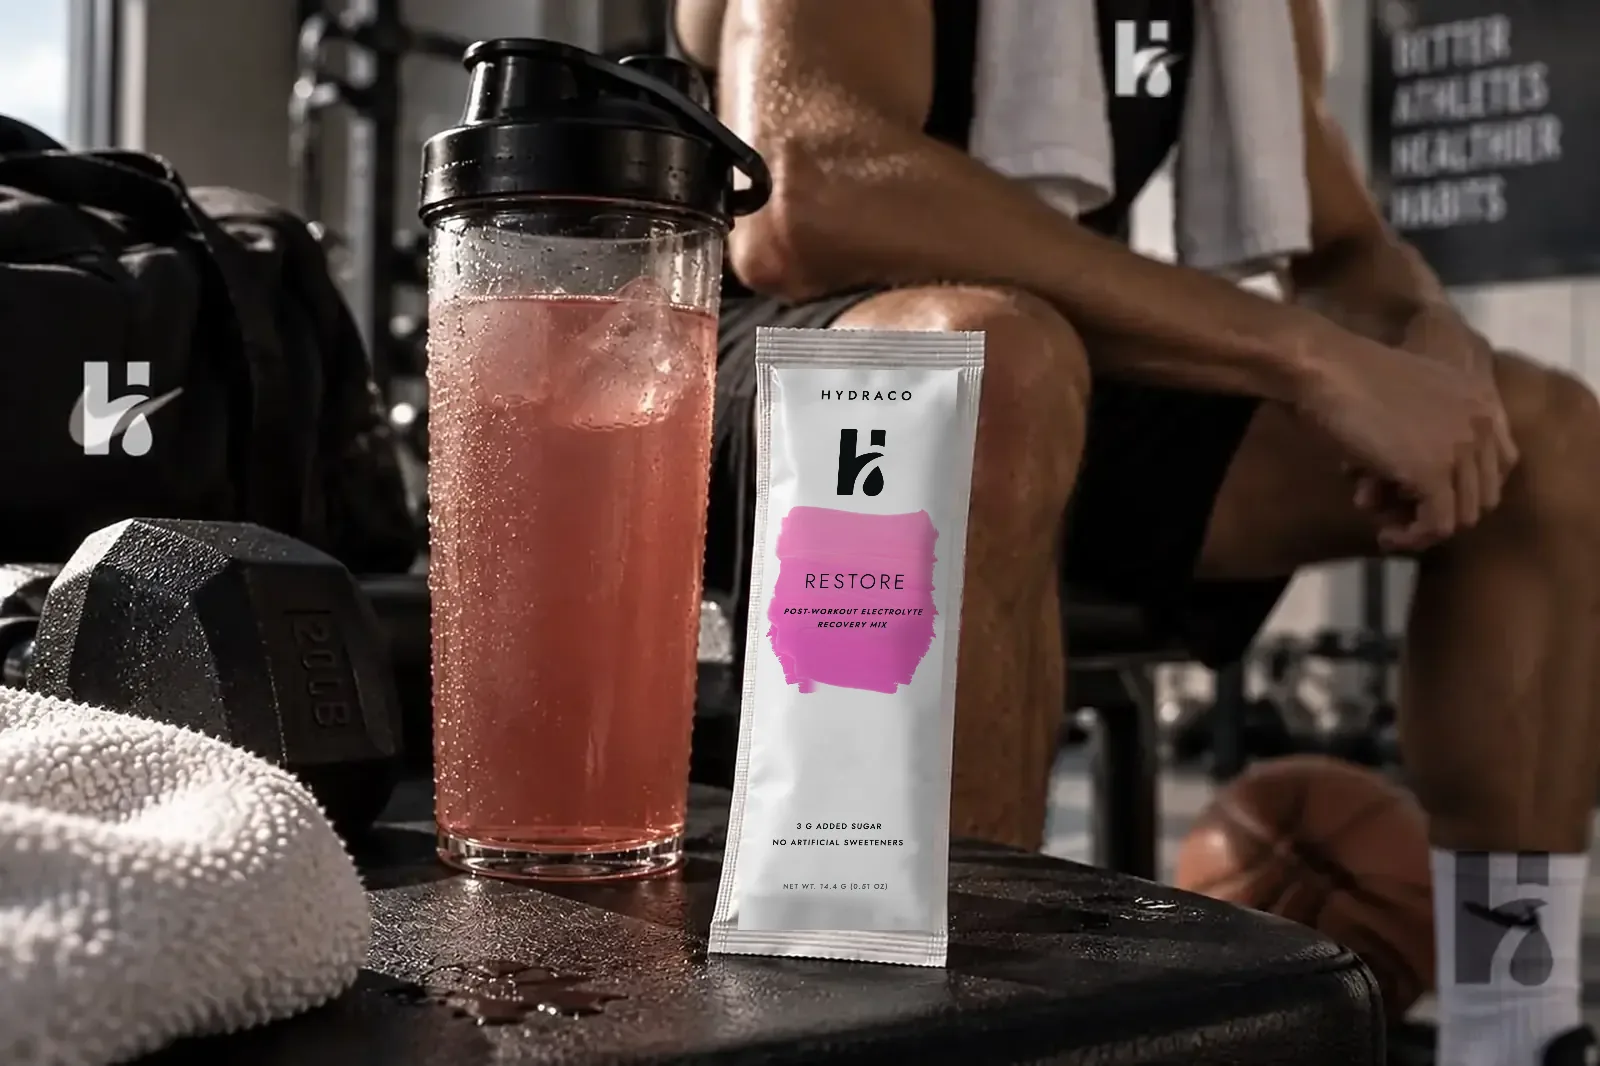
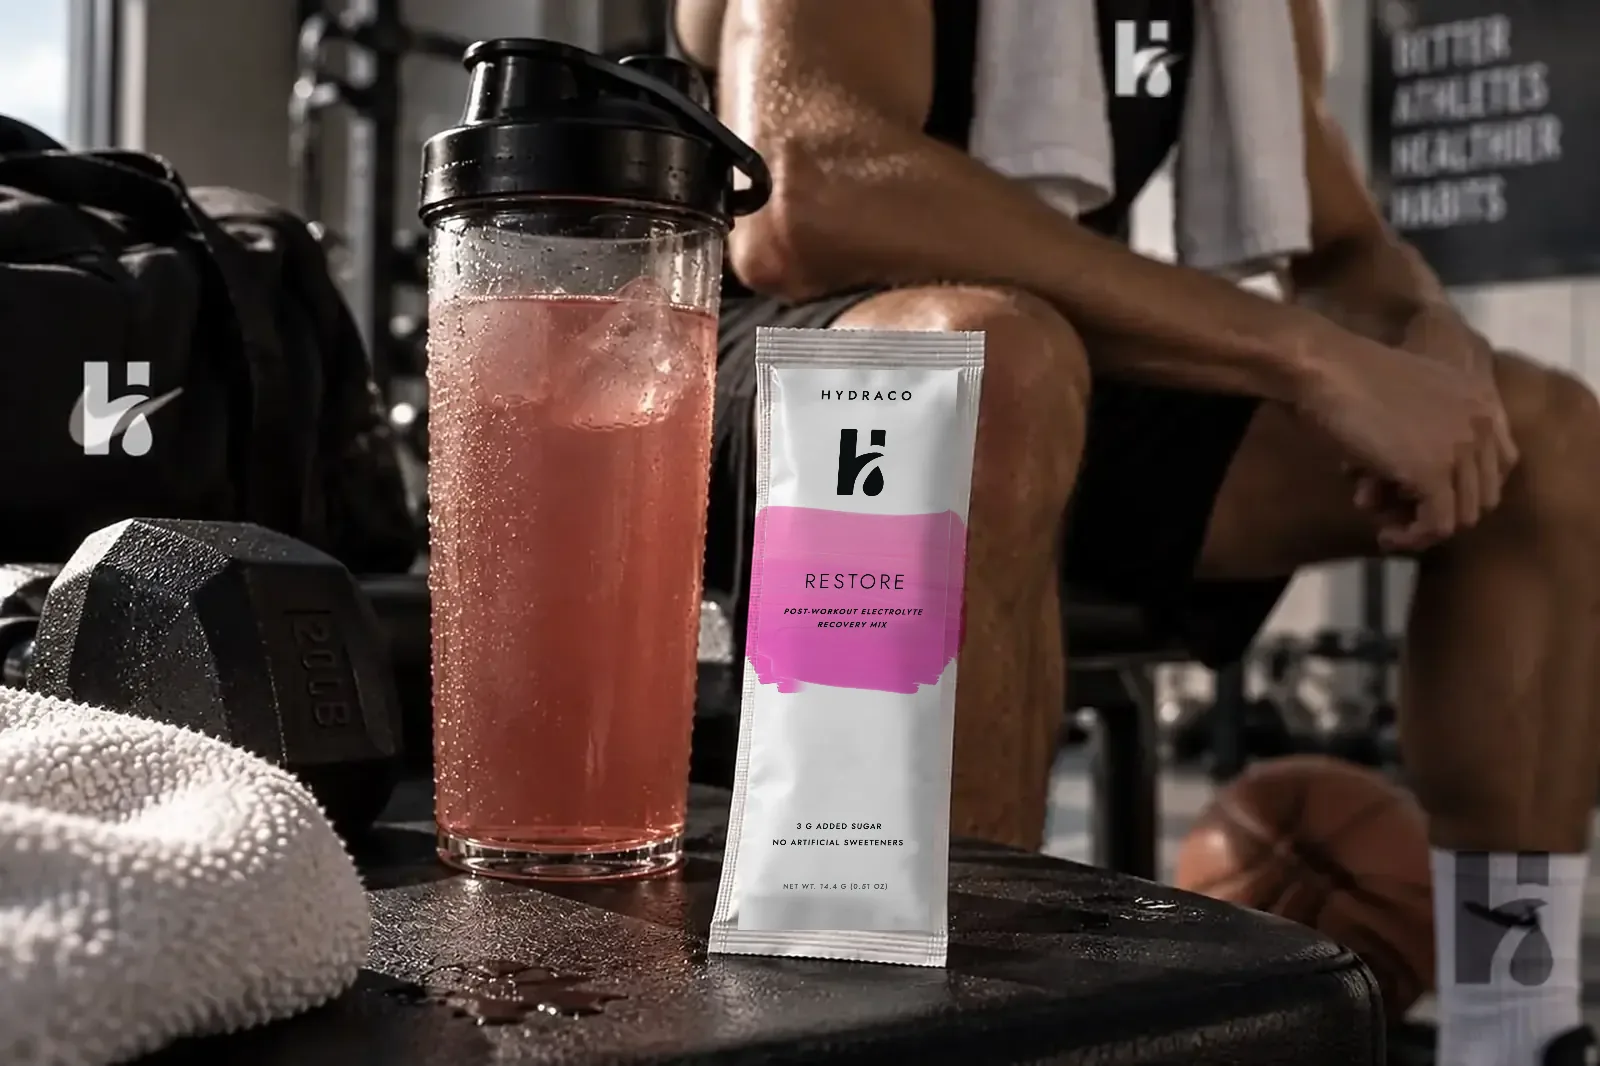
Run the brush band edge to edge on the packs in every photo

Changed region(s): [[0.5625, 0.4644, 0.625, 0.6501], [0.4688, 0.4644, 0.5312, 0.6501]]

diff --git a/index.html b/index.html
@@ -22,13 +22,13 @@
 <meta property="og:title" content="Hydraco Restore — Post-Workout Electrolyte Recovery Mix">
 <meta property="og:description" content="Hydraco Restore is a strawberry lemonade post-workout electrolyte recovery mix — low sugar, no artificial sweeteners, with tart cherry and pomegranate. Designed for recovery, not stimulation.">
 <meta property="og:url" content="https://www.drinkhydraco.com/">
-<meta property="og:image" content="https://www.drinkhydraco.com/images/og.jpg?v=pack9">
+<meta property="og:image" content="https://www.drinkhydraco.com/images/og.jpg?v=pack10">
 <meta property="og:image:width" content="1200">
 <meta property="og:image:height" content="630">
 <meta property="og:image:alt" content="A Hydraco Restore stick pack beside a glass of the prepared drink in a gym">
 <meta name="twitter:card" content="summary_large_image">
-<meta name="twitter:image" content="https://www.drinkhydraco.com/images/og.jpg?v=pack9">
-<script type="application/ld+json">[{"@context": "https://schema.org", "@type": "Organization", "name": "Hydraco", "legalName": "Hydraco, LLC", "url": "https://www.drinkhydraco.com/", "logo": "https://www.drinkhydraco.com/images/apple-touch-icon.png", "email": "hydracompanymd@gmail.com", "sameAs": ["https://www.instagram.com/hydracofficial"]}, {"@context": "https://schema.org", "@type": "Product", "name": "Hydraco Restore", "description": "Hydraco Restore is a strawberry lemonade post-workout electrolyte recovery mix — low sugar, no artificial sweeteners, with tart cherry and pomegranate. Designed for recovery, not stimulation.", "image": "https://www.drinkhydraco.com/images/og.jpg?v=pack9", "brand": {"@type": "Brand", "name": "Hydraco"}, "category": "Electrolyte drink mix", "offers": {"@type": "AggregateOffer", "priceCurrency": "USD", "lowPrice": "2.45", "highPrice": "89.55", "offerCount": 4, "availability": "https://schema.org/InStock", "url": "https://www.drinkhydraco.com/#order"}}, {"@context": "https://schema.org", "@type": "Product", "name": "Hydraco Hydrapro", "description": "Hydraco Hydrapro is the Restore strawberry lemonade recovery mix with more electrolytes and over 1 billion CFU of the probiotic Bacillus coagulans per stick — low sugar, no artificial sweeteners.", "image": "https://www.drinkhydraco.com/images/og.jpg?v=pack9", "brand": {"@type": "Brand", "name": "Hydraco"}, "category": "Electrolyte drink mix", "offers": {"@type": "AggregateOffer", "priceCurrency": "USD", "lowPrice": "14.95", "highPrice": "112.05", "offerCount": 4, "availability": "https://schema.org/InStock", "url": "https://www.drinkhydraco.com/#order"}}, {"@context": "https://schema.org", "@type": "FAQPage", "mainEntity": [{"@type": "Question", "name": "How do I use it?", "acceptedAnswer": {"@type": "Answer", "text": "Pour one stick pack into 16–32 oz of cold water, shake or stir, and drink it after training. One stick is one serving."}}, {"@type": "Question", "name": "How do I pay?", "acceptedAnswer": {"@type": "Answer", "text": "By Zelle, Apple Cash, or card — pick one in the order form. Card and Apple Pay payments go through Stripe's secure checkout; we never see or store your card number."}}, {"@type": "Question", "name": "Where do you deliver, and what does it cost?", "acceptedAnswer": {"@type": "Answer", "text": "Delivery is free in NYC and in Maryland, D.C. and Virginia, within about an hour of our office. Anywhere else, including internationally, email us for a delivery quote before you order."}}, {"@type": "Question", "name": "When will my order arrive?", "acceptedAnswer": {"@type": "Answer", "text": "Usually within a few days. Restore is made in small batches and orders are filled in the order they come in; we email you to confirm your delivery date, usually within one business day."}}, {"@type": "Question", "name": "How should I store it?", "acceptedAnswer": {"@type": "Answer", "text": "In a cool, dry place. Best before one year after opening."}}, {"@type": "Question", "name": "Is it safe for me?", "acceptedAnswer": {"@type": "Answer", "text": "It's a food, not a medicine. The full notice, allergen and cottage-food details are in the footer below."}}]}]</script>
+<meta name="twitter:image" content="https://www.drinkhydraco.com/images/og.jpg?v=pack10">
+<script type="application/ld+json">[{"@context": "https://schema.org", "@type": "Organization", "name": "Hydraco", "legalName": "Hydraco, LLC", "url": "https://www.drinkhydraco.com/", "logo": "https://www.drinkhydraco.com/images/apple-touch-icon.png", "email": "hydracompanymd@gmail.com", "sameAs": ["https://www.instagram.com/hydracofficial"]}, {"@context": "https://schema.org", "@type": "Product", "name": "Hydraco Restore", "description": "Hydraco Restore is a strawberry lemonade post-workout electrolyte recovery mix — low sugar, no artificial sweeteners, with tart cherry and pomegranate. Designed for recovery, not stimulation.", "image": "https://www.drinkhydraco.com/images/og.jpg?v=pack10", "brand": {"@type": "Brand", "name": "Hydraco"}, "category": "Electrolyte drink mix", "offers": {"@type": "AggregateOffer", "priceCurrency": "USD", "lowPrice": "2.45", "highPrice": "89.55", "offerCount": 4, "availability": "https://schema.org/InStock", "url": "https://www.drinkhydraco.com/#order"}}, {"@context": "https://schema.org", "@type": "Product", "name": "Hydraco Hydrapro", "description": "Hydraco Hydrapro is the Restore strawberry lemonade recovery mix with more electrolytes and over 1 billion CFU of the probiotic Bacillus coagulans per stick — low sugar, no artificial sweeteners.", "image": "https://www.drinkhydraco.com/images/og.jpg?v=pack10", "brand": {"@type": "Brand", "name": "Hydraco"}, "category": "Electrolyte drink mix", "offers": {"@type": "AggregateOffer", "priceCurrency": "USD", "lowPrice": "14.95", "highPrice": "112.05", "offerCount": 4, "availability": "https://schema.org/InStock", "url": "https://www.drinkhydraco.com/#order"}}, {"@context": "https://schema.org", "@type": "FAQPage", "mainEntity": [{"@type": "Question", "name": "How do I use it?", "acceptedAnswer": {"@type": "Answer", "text": "Pour one stick pack into 16–32 oz of cold water, shake or stir, and drink it after training. One stick is one serving."}}, {"@type": "Question", "name": "How do I pay?", "acceptedAnswer": {"@type": "Answer", "text": "By Zelle, Apple Cash, or card — pick one in the order form. Card and Apple Pay payments go through Stripe's secure checkout; we never see or store your card number."}}, {"@type": "Question", "name": "Where do you deliver, and what does it cost?", "acceptedAnswer": {"@type": "Answer", "text": "Delivery is free in NYC and in Maryland, D.C. and Virginia, within about an hour of our office. Anywhere else, including internationally, email us for a delivery quote before you order."}}, {"@type": "Question", "name": "When will my order arrive?", "acceptedAnswer": {"@type": "Answer", "text": "Usually within a few days. Restore is made in small batches and orders are filled in the order they come in; we email you to confirm your delivery date, usually within one business day."}}, {"@type": "Question", "name": "How should I store it?", "acceptedAnswer": {"@type": "Answer", "text": "In a cool, dry place. Best before one year after opening."}}, {"@type": "Question", "name": "Is it safe for me?", "acceptedAnswer": {"@type": "Answer", "text": "It's a food, not a medicine. The full notice, allergen and cottage-food details are in the footer below."}}]}]</script>
 <meta name="theme-color" content="#00a9ac">
 <link rel="preconnect" href="https://fonts.googleapis.com">
 <link rel="preconnect" href="https://fonts.gstatic.com" crossorigin>
@@ -3507,7 +3507,7 @@ body:not(.fun-mode) .galaxy-bg *{animation-play-state:paused!important}
     </div>
 
     <div class="hero-photo">
-      <img data-photo="hero" src="/images/hero.webp?v=pack9" class="photo-frame" alt="HYDRACO Restore post-workout electrolyte recovery mix packet, standing beside a glass of the prepared drink" width="853" height="1280" fetchpriority="high">
+      <img data-photo="hero" src="/images/hero.webp?v=pack10" class="photo-frame" alt="HYDRACO Restore post-workout electrolyte recovery mix packet, standing beside a glass of the prepared drink" width="853" height="1280" fetchpriority="high">
     </div>
   </header>
 
@@ -3549,7 +3549,7 @@ body:not(.fun-mode) .galaxy-bg *{animation-play-state:paused!important}
   <section id="why">
    <div class="why-grid">
     <div class="why-photo rv">
-      <img data-photo="why-recovery" src="/images/why-recovery.webp?v=pack9" class="photo-frame" alt="HYDRACO Restore electrolyte recovery drink after training" loading="lazy" decoding="async" width="1280" height="853">
+      <img data-photo="why-recovery" src="/images/why-recovery.webp?v=pack10" class="photo-frame" alt="HYDRACO Restore electrolyte recovery drink after training" loading="lazy" decoding="async" width="1280" height="853">
     </div>
     <div class="why-text rv">
     <div class="sec-head">
@@ -3611,7 +3611,7 @@ body:not(.fun-mode) .galaxy-bg *{animation-play-state:paused!important}
 
   <!-- ============ GYM / RECOVERY BAND ============ -->
   <div class="gym-band rv" aria-label="HYDRACO Restore in a post-workout gym setting">
-    <img data-photo="gym-band" src="/images/gym-band.webp?v=pack9" alt="HYDRACO Restore electrolyte packet and drink in a post-workout gym setting" loading="lazy" decoding="async" width="1280" height="853">
+    <img data-photo="gym-band" src="/images/gym-band.webp?v=pack10" alt="HYDRACO Restore electrolyte packet and drink in a post-workout gym setting" loading="lazy" decoding="async" width="1280" height="853">
     <div class="gym-band-copy">
       <p data-only="restore">Built for the hours after, not the minutes during.</p>
       <p data-only="hydrapro">For the long, sweaty sessions &mdash; and the hours after.</p>
@@ -3977,8 +3977,8 @@ body:not(.fun-mode) .galaxy-bg *{animation-play-state:paused!important}
         </div>
 
         <div class="inside-photos rv">
-          <img data-photo="inside-packet" src="/images/inside-packet.webp?v=pack9" class="photo-frame" alt="HYDRACO Restore electrolyte packet beside a glass of the prepared electrolyte drink" loading="lazy" width="608" height="760">
-          <img data-photo="inside-pour" src="/images/inside-pour.webp?v=pack9" class="photo-frame" alt="HYDRACO Restore electrolyte powder being poured into an iced drink" loading="lazy" width="760" height="506">
+          <img data-photo="inside-packet" src="/images/inside-packet.webp?v=pack10" class="photo-frame" alt="HYDRACO Restore electrolyte packet beside a glass of the prepared electrolyte drink" loading="lazy" width="608" height="760">
+          <img data-photo="inside-pour" src="/images/inside-pour.webp?v=pack10" class="photo-frame" alt="HYDRACO Restore electrolyte powder being poured into an iced drink" loading="lazy" width="760" height="506">
         </div>
       </div>
 
@@ -4429,8 +4429,8 @@ body:not(.fun-mode) .galaxy-bg *{animation-play-state:paused!important}
       </div>
 
       <div class="hp-photos">
-        <img data-photo="inside-packet" src="/images/inside-packet.webp?v=pack9" class="photo-frame" alt="HYDRACO Hydrapro electrolyte packet beside a glass of the prepared drink" loading="lazy" width="608" height="760">
-        <img data-photo="inside-pour" src="/images/inside-pour.webp?v=pack9" class="photo-frame" alt="HYDRACO Hydrapro powder being poured into an iced drink" loading="lazy" width="760" height="506">
+        <img data-photo="inside-packet" src="/images/inside-packet.webp?v=pack10" class="photo-frame" alt="HYDRACO Hydrapro electrolyte packet beside a glass of the prepared drink" loading="lazy" width="608" height="760">
+        <img data-photo="inside-pour" src="/images/inside-pour.webp?v=pack10" class="photo-frame" alt="HYDRACO Hydrapro powder being poured into an iced drink" loading="lazy" width="760" height="506">
       </div>
 
       <!-- HYDRAPRO NUTRITION: the Nutrition Facts panel and the sodium / potassium / magnesium
@@ -4914,7 +4914,7 @@ body:not(.fun-mode) .galaxy-bg *{animation-play-state:paused!important}
       </form>
 
       <div class="preorder-photo rv">
-        <img data-photo="preorder" src="/images/preorder.webp?v=pack9" class="photo-frame" alt="Three HYDRACO Restore electrolyte recovery mix packets" loading="lazy" width="720" height="900">
+        <img data-photo="preorder" src="/images/preorder.webp?v=pack10" class="photo-frame" alt="Three HYDRACO Restore electrolyte recovery mix packets" loading="lazy" width="720" height="900">
       </div>
 
     </div>
@@ -5259,7 +5259,7 @@ const PRODUCT_DESC = {
 const calmMotion = () => window.matchMedia("(prefers-reduced-motion: reduce)").matches;
 const START_PACK = { restore: 19, hydrapro: 19, mix: 19 };
 const photoSrc = (name, p) => p === "hydrapro"
-  ? "/images/hp/" + name + ".webp?v=hp4" : "/images/" + name + ".webp?v=pack9";
+  ? "/images/hp/" + name + ".webp?v=hp5" : "/images/" + name + ".webp?v=pack10";
 
 const PAGE_TITLE = {
   restore: "Hydraco Restore — Post-Workout Electrolyte Recovery Mix",
